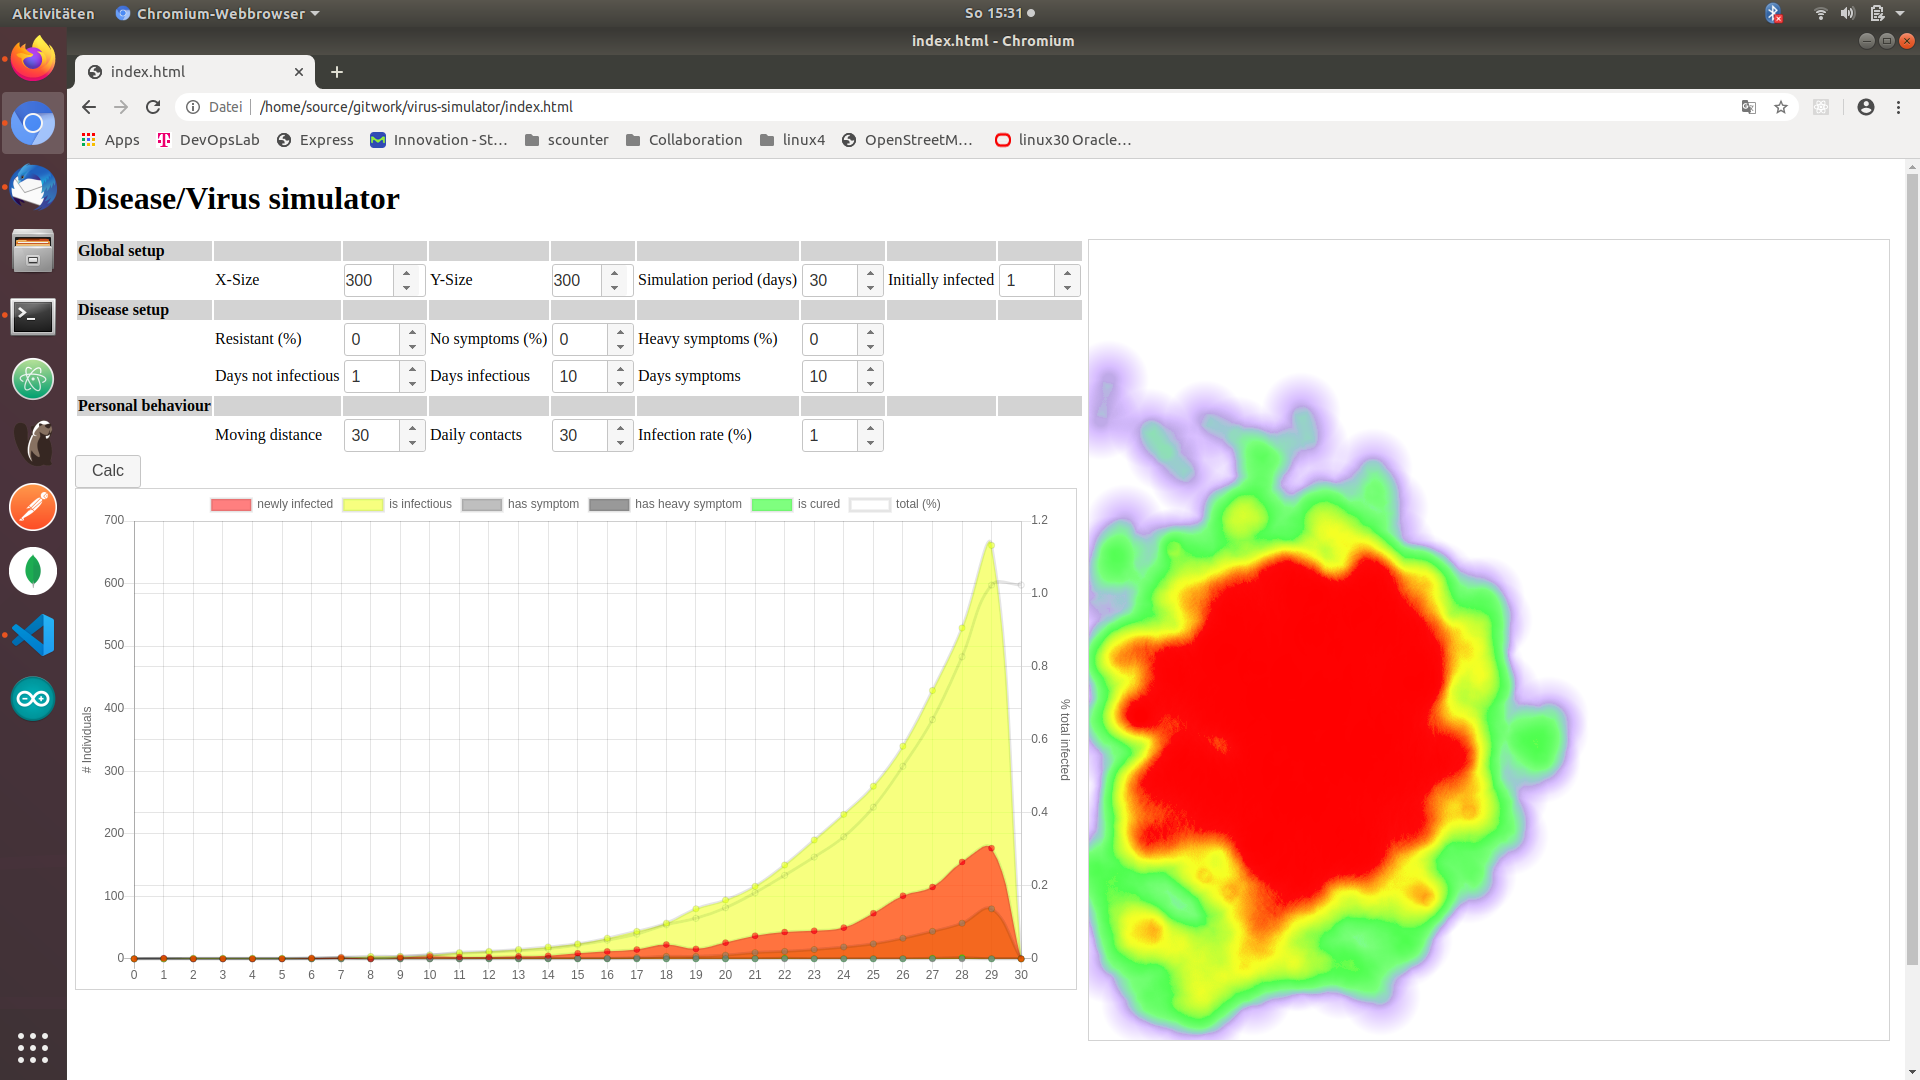
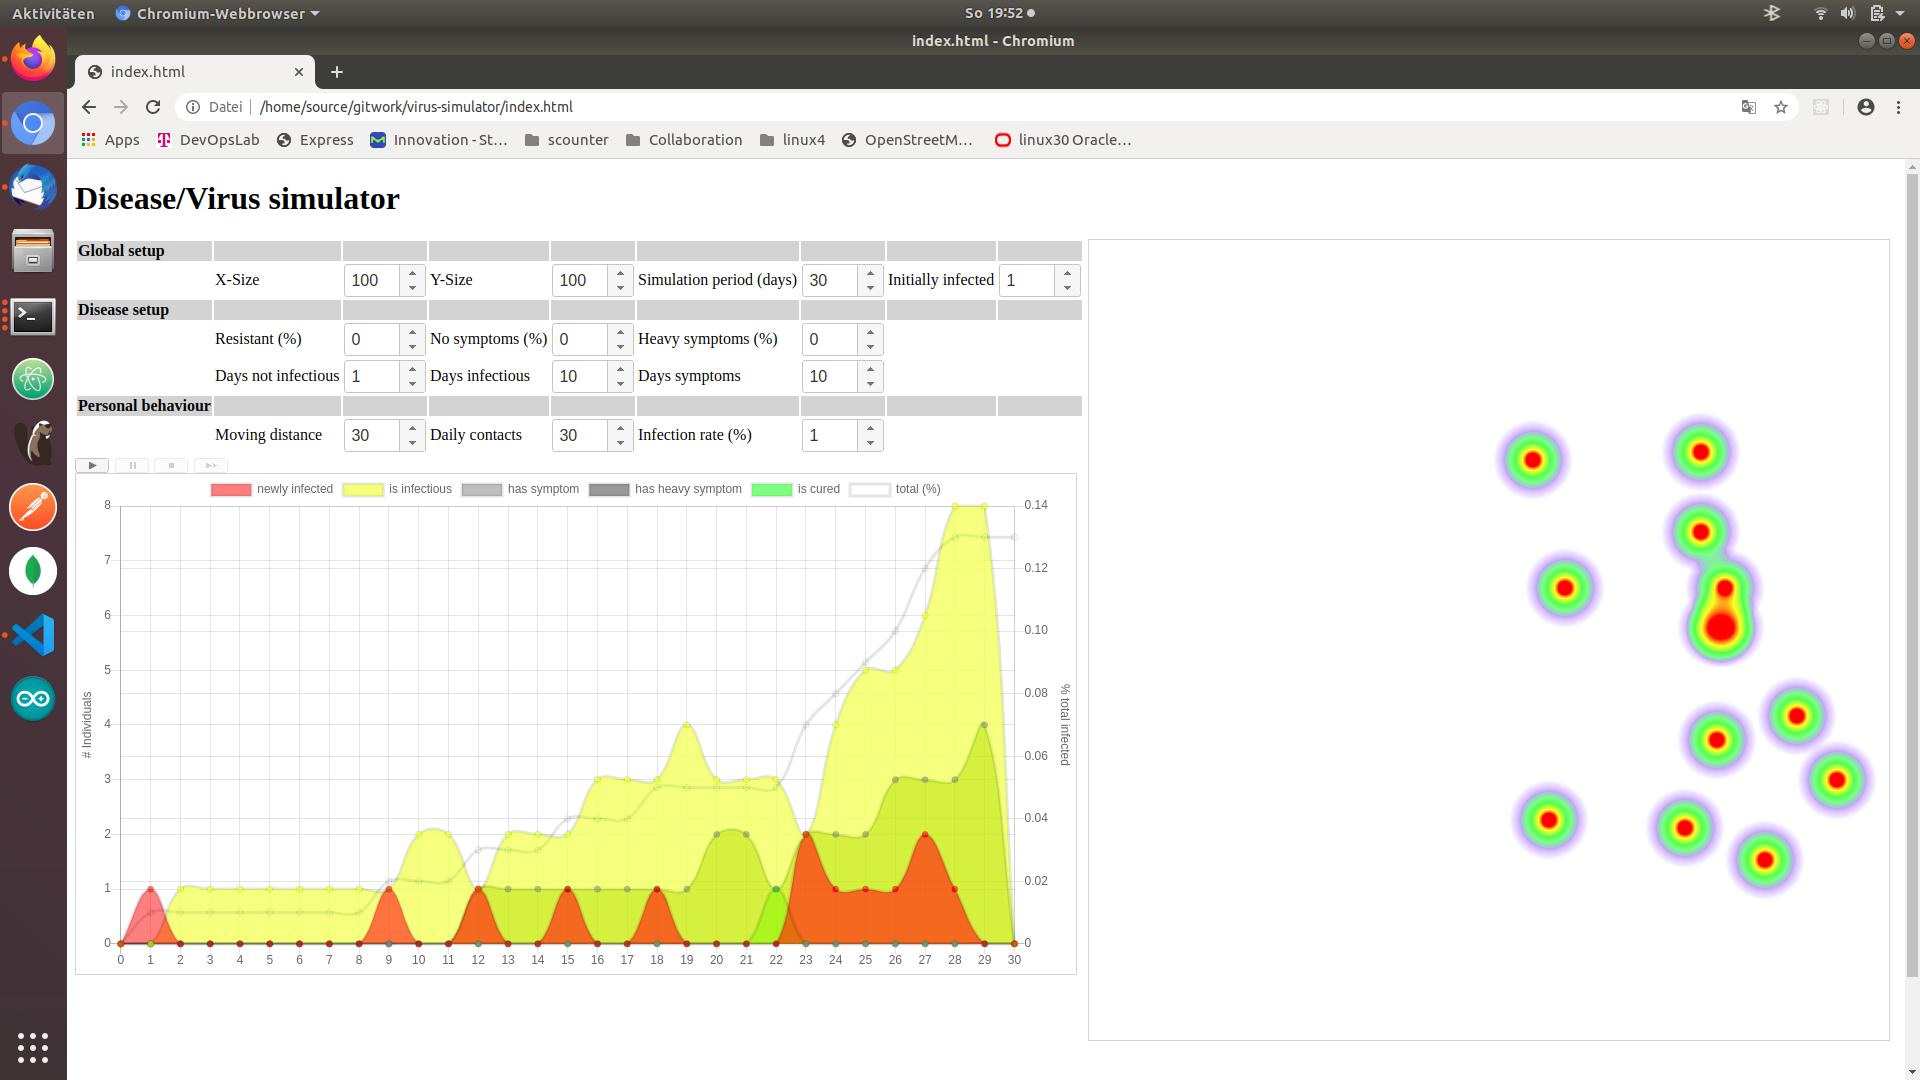
Webpage with start/spop/pause/singerlstep buttons

diff --git a/index.html b/index.html
@@ -121,7 +121,15 @@
         </tr>
       </table>
     </div>
-    <button id="calc">Calc</button>
+    <button id="button_start" class="ui-button ui-widget ui-corner-all ui-button-icon-only">
+      <span class="ui-icon ui-icon-play"></span></button>
+    <button id="button_pause" class="ui-button ui-widget ui-corner-all ui-button-icon-only">
+      <span class="ui-icon ui-icon-pause"></span></button>
+    <button id="button_stop" class="ui-button ui-widget ui-corner-all ui-button-icon-only">
+      <span class="ui-icon ui-icon-stop"></span></button>
+    <button id="button_seek" class="ui-button ui-widget ui-corner-all ui-button-icon-only">
+      <span class="ui-icon ui-icon-seek-next"></span></button>
+
     <div id="calculating"></div>
     <div style="width: 1000px; height: 700px">
       <canvas id="totalchart" style="border:1px solid #d3d3d3;"></canvas>
@@ -132,10 +140,12 @@
 
 
   <script>
+    "use strict";
     $(function () {
+      let playMode = 0;
 
       // draw the total overview diagram
-      drawTotal = function (chart, options, status) {
+      let drawTotal = function (chart, options, status) {
         //        console.dir(status);
         let chartOptions = {
           responsive: true,
@@ -202,8 +212,8 @@
           }
         };
 
-        total = 0;
-        for (i = 0; i < status.length; i++) {
+        let total = 0;
+        for (let i = 0; i < status.length; i++) {
           chartOptions.data.labels.push(i);
           chartOptions.data.datasets[0].data.push(status[i].infected);
           chartOptions.data.datasets[1].data.push(status[i].infectious);
@@ -220,7 +230,7 @@
       }
 
       // draw the heatmap baset on buckets (width always 100, height adjusted)
-      drawHeatmap = function (chart, options, country) {
+      let drawHeatmap = function (chart, options, country) {
         //        console.dir(country);
         let heatmap = [];
         let xSize = 100;
@@ -287,11 +297,81 @@
       $("#heavysymptoms").spinner({ min: 0, max: 100, step: 1 });
       $("#nosymptoms").spinner({ min: 0, max: 100, step: 1 });
 
-      $("#calc").button();
-      $("#calc").click(function (event) {
-        $("#calc").button("disable");
+      $('#button_start').button();
+      $('#button_pause').button().button('disable');
+      $('#button_stop').button().button('disable');
+      $('#button_seek').button().button('disable');
+
+      $('#button_stop').click(function (event) {
+        $('#button_start').button('enable');
+        $('#button_pause').button('disable');
+        $('#button_stop').button('disable');
+        $('#button_seek').button('disable');
+        playMode = 0;
+      });
+
+      $('#button_seek').click(function (event) {
+        $('#button_start').button('enable');
+        $('#button_pause').button('disable');
+        $('#button_stop').button('disable');
+        $('#button_seek').button('disable');
+        playMode = 2;
+        setTimeout(drawDay, 100);
+      });
+
+      $('#button_pause').click(function (event) {
+        $('#button_start').button('enable');
+        $('#button_pause').button('enable');
+        $('#button_stop').button('enable');
+        $('#button_seek').button('enable');
+        if (playMode == 1) {
+          playMode = 3;
+        } else {
+          setTimeout(drawDay, 100);
+          playMode = 1;
+        }
+      });
+
+      let options = {};
+      let simulation = null;
+      let heatmapInstance = null;
+      let totalChart = null;
+
+      let drawDay = function () {
+        let rawData = simulation.getData();
+        if (rawData) {
+          //              console.dir(rawData);
+          drawHeatmap(heatmapInstance, options, rawData.country);
+          drawTotal(totalChart, options, rawData.status);
+
+          if (simulation.nextDay() && simulation.today < simulation.period) {
+            if (playMode == 1) {
+              setTimeout(drawDay, 300);
+            } else {
+              $('#calculating').removeClass('spinner');
+              $('#button_start').button('enable');
+              $('#button_pause').button('enable');
+              $('#button_seek').button('enable');
+            }
+          } else {
+            $('#calculating').removeClass('spinner');
+            $('#button_start').button('enable');
+            $('#button_pause').button('disable');
+            $('#button_seek').button('disable');
+            $('#button_stop').button('disable');
+
+          }
+        }
+      }
+
+      $('#button_start').click(function (event) {
+        $('#button_start').button('disable');
+        $('#button_pause').button('enable');
+        $('#button_stop').button('enable');
+        $('#button_seek').button('disable');
+        playMode = 1;
         $('#calculating').addClass('spinner');
-        let options = {
+        options = {
           xsize: parseInt($('#xsize').val()),
           ysize: parseInt($('#ysize').val()),
           period: parseInt($('#period').val()),
@@ -314,11 +394,11 @@
         console.log('Size', width, height);
         $('#heatmap').height(height);
         $('#heatmap').html('');
-        let heatmapInstance = h337.create({
+        heatmapInstance = h337.create({
           container: document.querySelector('#heatmap')
         });
 
-        let totalChart = new Chart($('#totalchart'), {
+        totalChart = new Chart($('#totalchart'), {
           responsive: true,
           maintainAspectRatio: false,
           type: 'line',
@@ -383,24 +463,8 @@
           }
         });
 
-        let simulation = new Simulation(options);
+        simulation = new Simulation(options);
         simulation.init();
-
-        drawDay = function () {
-          let rawData = simulation.getData();
-          if (rawData) {
-            //              console.dir(rawData);
-            drawHeatmap(heatmapInstance, options, rawData.country);
-            drawTotal(totalChart, options, rawData.status);
-            simulation.nextDay();
-            if (simulation.today < simulation.period) {
-              setTimeout(drawDay, 300);
-            } else {
-              $('#calculating').removeClass('spinner');
-              $("#calc").button("enable");
-            }
-          }
-        }
 
         setTimeout(drawDay, 100);
         event.preventDefault();

diff --git a/main.js b/main.js
@@ -1,5 +1,3 @@
-#!/usr/bin/nodejs
-
 "use strict";
 
 let gDebug = 0;
@@ -260,5 +258,6 @@ class Simulation{
     this.today ++;
     let infections = this.country.calcInfections(this.today, this.disease);
     if(gDebug) {console.dir(infections);}
+    return(infections.length>0);
   }
 }
